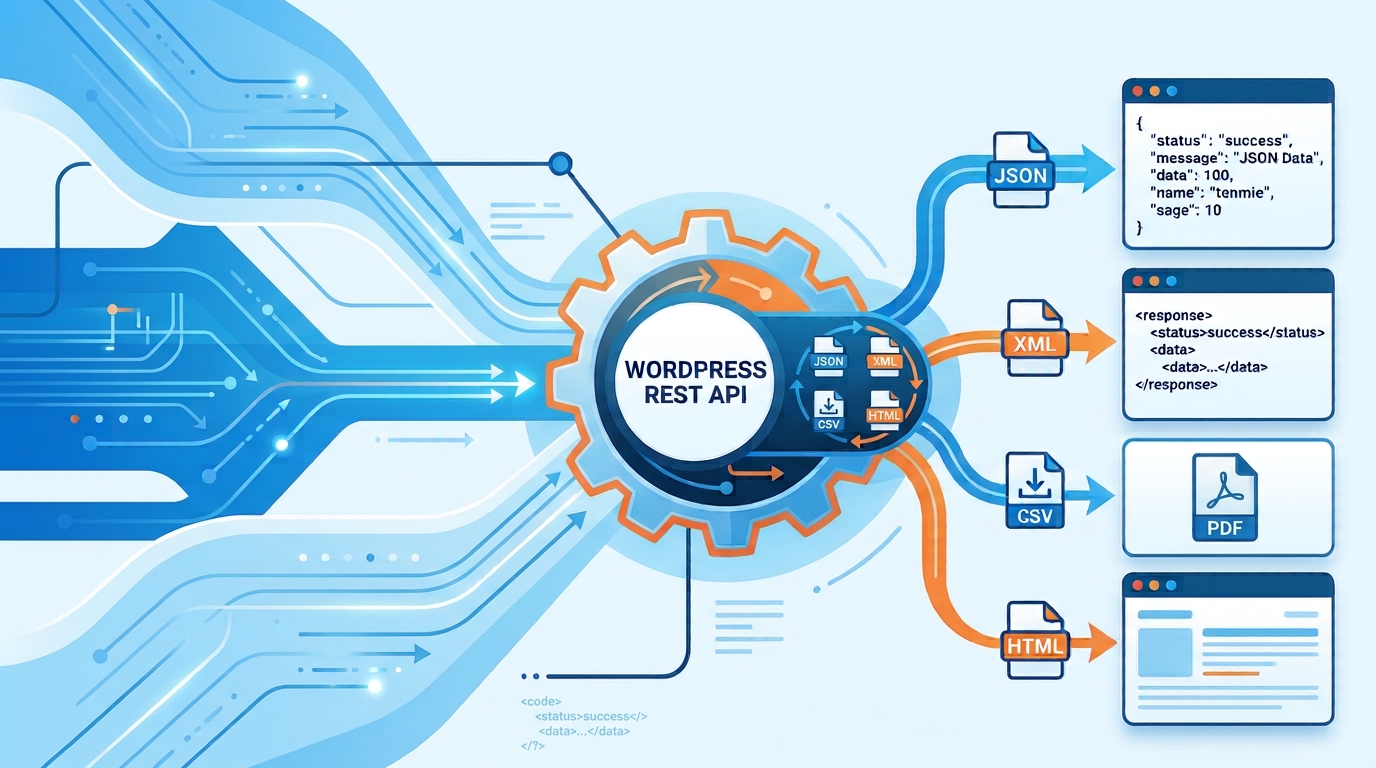
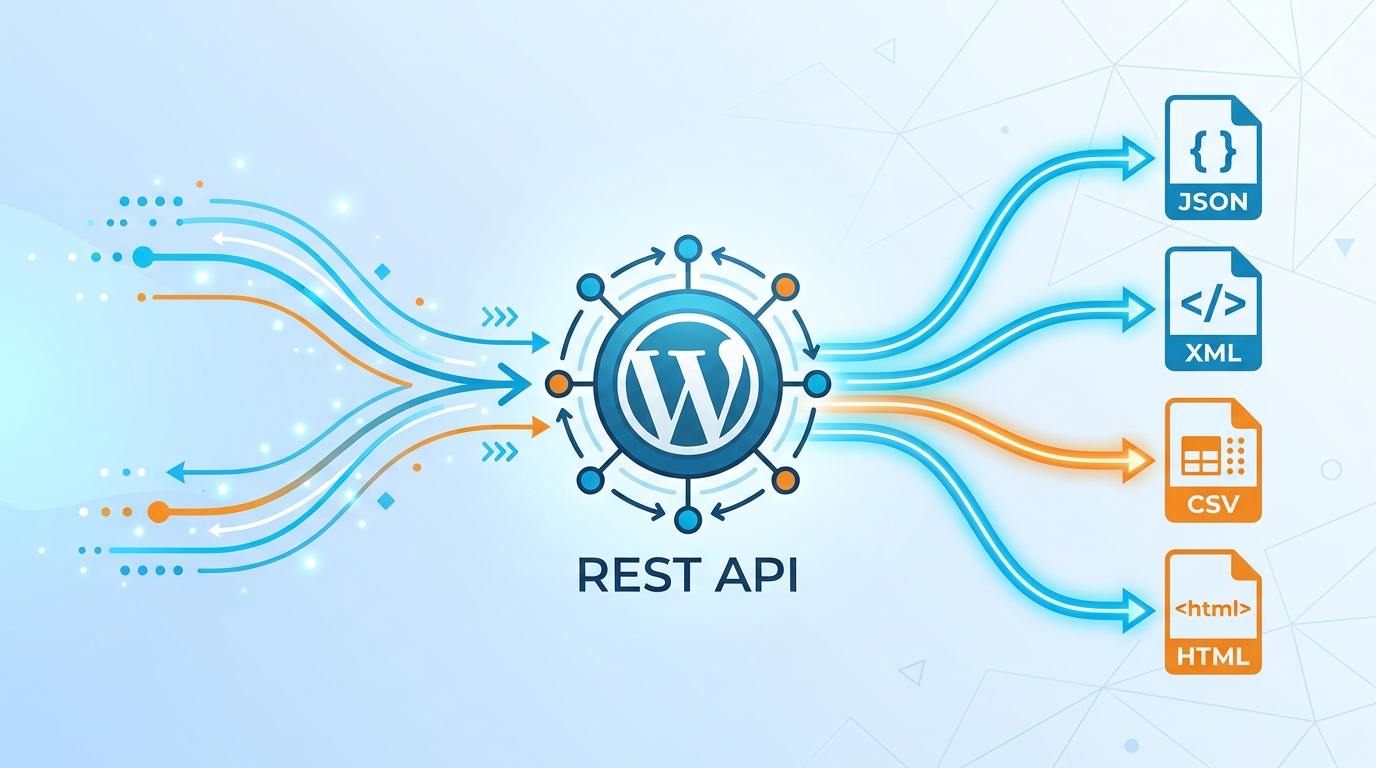
docs(blog): replace the route-without-JSON cover image

diff --git a/documentation/src/content/docs/blog/wordpress-rest-api-route-without-json.md b/documentation/src/content/docs/blog/wordpress-rest-api-route-without-json.md
@@ -6,7 +6,7 @@ draft: false
 cliVersion: 0.32.2
 wordpressPluginVersion: 2026.17.1
 cover:
-  alt: Requests flowing into a WordPress REST API gear that sends out JSON, XML, CSV, PDF and HTML responses.
+  alt: Requests flowing into the WordPress REST API and coming out as JSON, XML, CSV and HTML files.
   image: ../../images/wordpress-rest-api-route-without-json-cover.jpeg
 authors:
   - maxime
